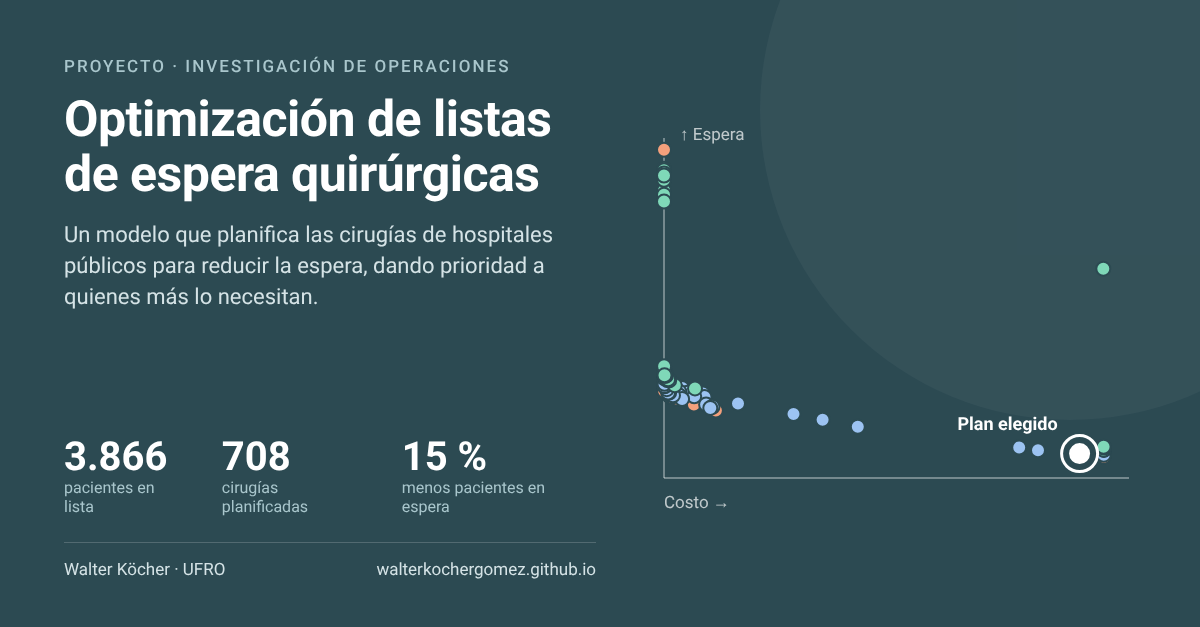
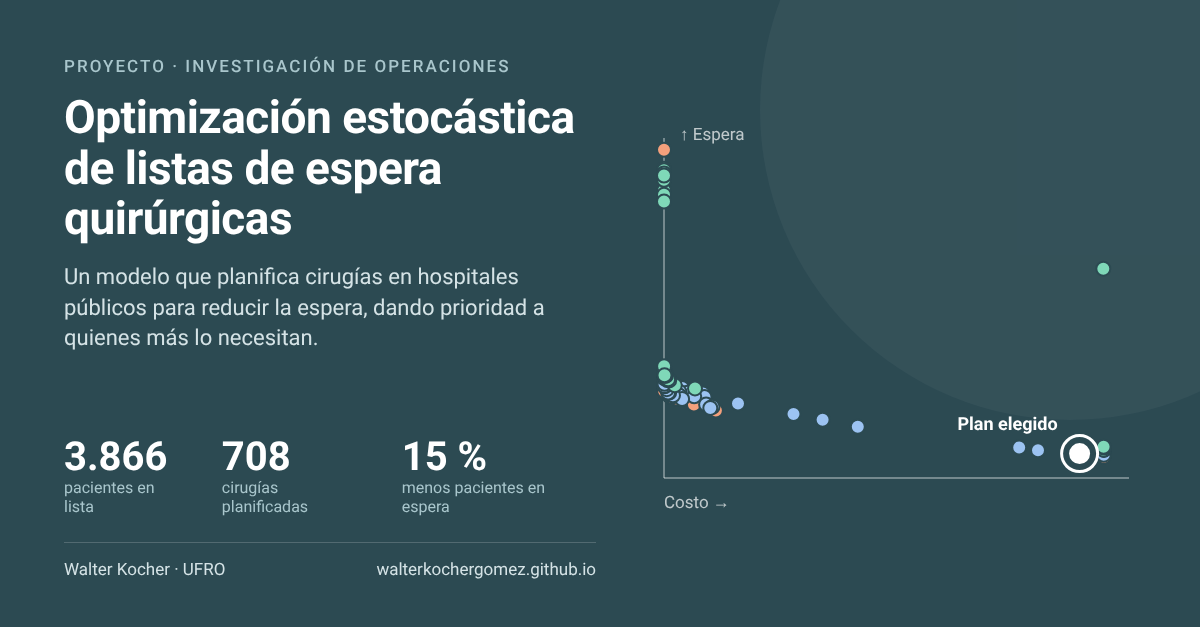
Menciona la optimización estocástica en la web y actualiza la imagen de vista previa
Claude-Session: https://claude.ai/code/session_01JGv5FEsSGp7Y8ajQuJRwav

Changed region(s): [[0.0308, 0.1515, 0.4933, 0.5758]]

diff --git a/proyecto-listas-espera.js b/proyecto-listas-espera.js
@@ -8,12 +8,12 @@
     // ---------- 1. TEXTOS (ES / DE / EN) ----------
     const pageTexts = {
         es: {
-            pj_title: "Optimización de listas de espera quirúrgicas",
+            pj_title: "Optimización estocástica de listas de espera quirúrgicas",
             pj_place: "Universidad de La Frontera (Temuco, Chile)",
             pj_date: "Abr – Jul 2026",
             pj_subtitle: "Un modelo para decidir quién se opera, dónde y cuándo",
-            pj_intro: "En la red pública de La Araucanía, casi 4.000 personas esperaban una cirugía en solo cuatro especialidades. Desarrollé un modelo de optimización que planifica semana a semana las cirugías de tres hospitales públicos y decide qué pacientes conviene derivar a una clínica privada, con un objetivo claro: reducir la espera dando prioridad a quienes más lo necesitan, sin dejar a ningún grupo atrás.",
-            pj_tag1: "Optimización",
+            pj_intro: "En la red pública de La Araucanía, casi 4.000 personas esperaban una cirugía en solo cuatro especialidades. Desarrollé un modelo de optimización estocástica que planifica semana a semana las cirugías de tres hospitales públicos y decide qué pacientes conviene derivar a una clínica privada, con un objetivo claro: reducir la espera dando prioridad a quienes más lo necesitan, sin dejar a ningún grupo atrás.",
+            pj_tag1: "Optimización estocástica",
             pj_tag2: "Análisis de datos",
             pj_tag3: "Salud pública",
             pj_fig_a: "pacientes en lista de espera",
@@ -23,14 +23,14 @@
             pj_s1_p1: "Los pabellones son limitados, derivar pacientes a clínicas privadas cuesta dinero y no todos los casos son igual de urgentes. Si simplemente se atiende por orden de llegada, un caso grave puede esperar lo mismo que uno leve, y los pacientes más vulnerables pueden quedar postergados.",
             pj_s1_p2: "¿Cómo operar a más personas, usando bien los recursos y de forma justa?",
             pj_s2_title: "La solución",
-            pj_s2_p1: "Construí un modelo de optimización: un programa que evalúa miles de combinaciones posibles y elige el mejor plan de cirugías. Para cuatro tipos de cirugía y tres hospitales, el modelo busca equilibrar tres metas al mismo tiempo:",
+            pj_s2_p1: "Construí un modelo de optimización estocástica: un programa que evalúa miles de combinaciones posibles y elige el mejor plan de cirugías. Para cuatro tipos de cirugía y tres hospitales, el modelo busca equilibrar tres metas al mismo tiempo:",
             pj_g1_t: "Gastar mejor",
             pj_g1_d: "Usar el presupuesto de derivación y las horas extra solo donde más rinden.",
             pj_g2_t: "Reducir la espera",
             pj_g2_d: "Dar prioridad a los casos más graves y a los pacientes más vulnerables.",
             pj_g3_t: "Ser justo",
             pj_g3_d: "Que ningún grupo de pacientes quede sistemáticamente atrás.",
-            pj_s2_p2: "Como en la realidad la demanda y las inasistencias cambian, el plan se pone a prueba en un escenario pesimista, uno normal y uno optimista, para que funcione en cualquiera de ellos.",
+            pj_s2_p2: "Es estocástico porque considera la incertidumbre: la demanda, las inasistencias y la duración de las cirugías cambian, así que el plan se pone a prueba en un escenario pesimista, uno normal y uno optimista, para que funcione en cualquiera de ellos.",
             pj_s3_title: "Resultados",
             pj_s3_p1: "En 12 semanas, el plan permite realizar 708 cirugías y reducir la lista de espera en un 15 %, respetando el presupuesto y sin dejar atrás a ningún grupo de pacientes.",
             pj_chart1_title: "Reducción de la lista de espera en 12 semanas, por tipo de cirugía",
@@ -49,7 +49,7 @@
             pj_s3_p3: "También comparé más de 100 planes con distintas prioridades. Una conclusión clave: si el plan no considera la equidad, la desigualdad entre grupos se duplica; al incluirla, se mantiene controlada sin sacrificar casi nada de la reducción de la espera.",
             pj_s4_title: "Lo que desarrollé",
             pj_s4_p1: "Desarrollé el proyecto completo, desde la idea hasta herramientas listas para usarse:",
-            pj_s4_l1: "Diseñé el modelo matemático y lo programé en Python con IBM CPLEX, un optimizador usado en la industria.",
+            pj_s4_l1: "Diseñé el modelo de optimización estocástica y lo programé en Python con IBM CPLEX, un optimizador usado en la industria.",
             pj_s4_l2: "Preparé los datos a partir de información histórica de listas de espera de la región.",
             pj_s4_l3: "Comparé distintos escenarios y prioridades para entender qué se gana y qué se pierde en cada caso.",
             pj_s4_l4: "Creé una aplicación web para registrar pacientes y un panel para seguir los resultados.",
@@ -64,12 +64,12 @@
             js_ini: "En lista al inicio", js_pub: "Operados en hospital público", js_priv: "Derivados a clínica privada", js_fin: "En lista tras 12 semanas"
         },
         de: {
-            pj_title: "Optimierung von OP-Wartelisten",
+            pj_title: "Stochastische Optimierung von OP-Wartelisten",
             pj_place: "Universidad de La Frontera (Temuco, Chile)",
             pj_date: "Apr. – Jul. 2026",
             pj_subtitle: "Ein Modell, das entscheidet, wer wann und wo operiert wird",
-            pj_intro: "Im öffentlichen Gesundheitsnetz der Region Araucanía warteten fast 4.000 Menschen auf eine Operation – in nur vier Fachbereichen. Ich habe ein Optimierungsmodell entwickelt, das die Operationen von drei öffentlichen Krankenhäusern Woche für Woche plant und entscheidet, welche Patienten an eine Privatklinik überwiesen werden sollten. Das Ziel: kürzere Wartezeiten, mit Vorrang für diejenigen, die es am dringendsten brauchen – ohne eine Gruppe zurückzulassen.",
-            pj_tag1: "Optimierung",
+            pj_intro: "Im öffentlichen Gesundheitsnetz der Region Araucanía warteten fast 4.000 Menschen auf eine Operation – in nur vier Fachbereichen. Ich habe ein stochastisches Optimierungsmodell entwickelt, das die Operationen von drei öffentlichen Krankenhäusern Woche für Woche plant und entscheidet, welche Patienten an eine Privatklinik überwiesen werden sollten. Das Ziel: kürzere Wartezeiten, mit Vorrang für diejenigen, die es am dringendsten brauchen – ohne eine Gruppe zurückzulassen.",
+            pj_tag1: "Stochastische Optimierung",
             pj_tag2: "Datenanalyse",
             pj_tag3: "Öffentliche Gesundheit",
             pj_fig_a: "Patienten auf der Warteliste",
@@ -79,14 +79,14 @@
             pj_s1_p1: "OP-Säle sind begrenzt, Überweisungen an Privatkliniken kosten Geld, und nicht jeder Fall ist gleich dringend. Wird einfach nach Eingangsreihenfolge behandelt, kann ein schwerer Fall genauso lange warten wie ein leichter, und besonders verletzliche Patienten werden womöglich zurückgestellt.",
             pj_s1_p2: "Wie kann man mehr Menschen operieren, die Ressourcen gut nutzen und dabei gerecht bleiben?",
             pj_s2_title: "Die Lösung",
-            pj_s2_p1: "Ich habe ein Optimierungsmodell gebaut: ein Programm, das Tausende möglicher Kombinationen bewertet und den besten OP-Plan auswählt. Für vier Eingriffsarten und drei Krankenhäuser bringt das Modell drei Ziele gleichzeitig ins Gleichgewicht:",
+            pj_s2_p1: "Ich habe ein stochastisches Optimierungsmodell gebaut: ein Programm, das Tausende möglicher Kombinationen bewertet und den besten OP-Plan auswählt. Für vier Eingriffsarten und drei Krankenhäuser bringt das Modell drei Ziele gleichzeitig ins Gleichgewicht:",
             pj_g1_t: "Besser haushalten",
             pj_g1_d: "Überweisungsbudget und Überstunden nur dort einsetzen, wo sie am meisten bewirken.",
             pj_g2_t: "Wartezeit verkürzen",
             pj_g2_d: "Schweren Fällen und besonders verletzlichen Patienten Vorrang geben.",
             pj_g3_t: "Gerecht sein",
             pj_g3_d: "Keine Patientengruppe soll systematisch zurückbleiben.",
-            pj_s2_p2: "Da sich Nachfrage und Terminausfälle in der Realität ändern, wird der Plan in einem pessimistischen, einem normalen und einem optimistischen Szenario getestet, damit er in jedem Fall funktioniert.",
+            pj_s2_p2: "Stochastisch ist es, weil es Unsicherheit berücksichtigt: Nachfrage, Terminausfälle und OP-Dauern schwanken. Deshalb wird der Plan in einem pessimistischen, einem normalen und einem optimistischen Szenario getestet, damit er in jedem Fall funktioniert.",
             pj_s3_title: "Ergebnisse",
             pj_s3_p1: "In 12 Wochen ermöglicht der Plan 708 Operationen und verkürzt die Warteliste um 15 % – im Rahmen des Budgets und ohne eine Patientengruppe zurückzulassen.",
             pj_chart1_title: "Reduktion der Warteliste in 12 Wochen, je Eingriff",
@@ -105,7 +105,7 @@
             pj_s3_p3: "Außerdem habe ich über 100 Pläne mit unterschiedlichen Prioritäten verglichen. Eine zentrale Erkenntnis: Ohne Berücksichtigung der Gerechtigkeit verdoppelt sich die Ungleichheit zwischen Gruppen; mit ihr bleibt sie unter Kontrolle, ohne dass die Wartezeitverkürzung nennenswert leidet.",
             pj_s4_title: "Was ich entwickelt habe",
             pj_s4_p1: "Ich habe das gesamte Projekt umgesetzt – von der Idee bis zu einsatzbereiten Werkzeugen:",
-            pj_s4_l1: "Das mathematische Modell entworfen und in Python mit IBM CPLEX, einem in der Industrie eingesetzten Optimierer, programmiert.",
+            pj_s4_l1: "Das stochastische Optimierungsmodell entworfen und in Python mit IBM CPLEX, einem in der Industrie eingesetzten Optimierer, programmiert.",
             pj_s4_l2: "Die Daten auf Basis historischer Wartelisten der Region aufbereitet.",
             pj_s4_l3: "Verschiedene Szenarien und Prioritäten verglichen, um zu verstehen, was man jeweils gewinnt und verliert.",
             pj_s4_l4: "Eine Webanwendung zur Patientenerfassung und ein Dashboard zur Verfolgung der Ergebnisse erstellt.",
@@ -119,12 +119,12 @@
             js_ini: "Zu Beginn auf der Liste", js_pub: "Im öffentlichen Krankenhaus operiert", js_priv: "An Privatklinik überwiesen", js_fin: "Nach 12 Wochen auf der Liste"
         },
         en: {
-            pj_title: "Optimizing Surgical Waiting Lists",
+            pj_title: "Stochastic Optimization of Surgical Waiting Lists",
             pj_place: "Universidad de La Frontera (Temuco, Chile)",
             pj_date: "Apr – Jul 2026",
             pj_subtitle: "A model that decides who gets surgery, where and when",
-            pj_intro: "In La Araucanía's public health network, almost 4,000 people were waiting for surgery in just four specialties. I developed an optimization model that plans the surgeries of three public hospitals week by week and decides which patients should be referred to a private clinic, with one clear goal: shorten waiting times by putting those who need it most first, without leaving any group behind.",
-            pj_tag1: "Optimization",
+            pj_intro: "In La Araucanía's public health network, almost 4,000 people were waiting for surgery in just four specialties. I developed a stochastic optimization model that plans the surgeries of three public hospitals week by week and decides which patients should be referred to a private clinic, with one clear goal: shorten waiting times by putting those who need it most first, without leaving any group behind.",
+            pj_tag1: "Stochastic optimization",
             pj_tag2: "Data analysis",
             pj_tag3: "Public health",
             pj_fig_a: "patients on the waiting list",
@@ -134,14 +134,14 @@
             pj_s1_p1: "Operating rooms are limited, referring patients to private clinics costs money, and not every case is equally urgent. If patients are simply treated in order of arrival, a severe case may wait as long as a mild one, and the most vulnerable patients can be left behind.",
             pj_s1_p2: "How can we operate on more people, use resources wisely and stay fair?",
             pj_s2_title: "The solution",
-            pj_s2_p1: "I built an optimization model: a program that evaluates thousands of possible combinations and picks the best surgical plan. For four types of surgery and three hospitals, the model balances three goals at once:",
+            pj_s2_p1: "I built a stochastic optimization model: a program that evaluates thousands of possible combinations and picks the best surgical plan. For four types of surgery and three hospitals, the model balances three goals at once:",
             pj_g1_t: "Spend wisely",
             pj_g1_d: "Use the referral budget and overtime only where they make the biggest difference.",
             pj_g2_t: "Shorten the wait",
             pj_g2_d: "Give priority to the most severe cases and the most vulnerable patients.",
             pj_g3_t: "Be fair",
             pj_g3_d: "Make sure no group of patients is systematically left behind.",
-            pj_s2_p2: "Because demand and no-shows change in real life, the plan is tested in a pessimistic, a normal and an optimistic scenario, so it works in any of them.",
+            pj_s2_p2: "It is stochastic because it accounts for uncertainty: demand, no-shows and surgery durations vary, so the plan is tested in a pessimistic, a normal and an optimistic scenario to make sure it works in any of them.",
             pj_s3_title: "Results",
             pj_s3_p1: "In 12 weeks, the plan makes 708 surgeries possible and cuts the waiting list by 15%, within budget and without leaving any group of patients behind.",
             pj_chart1_title: "Waiting-list reduction in 12 weeks, by type of surgery",
@@ -160,7 +160,7 @@
             pj_s3_p3: "I also compared more than 100 plans with different priorities. One key finding: if the plan ignores fairness, inequality between groups doubles; when fairness is included, it stays under control while giving up almost none of the waiting-time reduction.",
             pj_s4_title: "What I built",
             pj_s4_p1: "I developed the whole project, from the initial idea to ready-to-use tools:",
-            pj_s4_l1: "Designed the mathematical model and programmed it in Python with IBM CPLEX, an optimizer used in industry.",
+            pj_s4_l1: "Designed the stochastic optimization model and programmed it in Python with IBM CPLEX, an optimizer used in industry.",
             pj_s4_l2: "Prepared the data from the region's historical waiting-list records.",
             pj_s4_l3: "Compared different scenarios and priorities to understand what is gained and lost in each case.",
             pj_s4_l4: "Built a web app to register patients and a dashboard to follow the results.",

diff --git a/proyecto-listas-espera.html b/proyecto-listas-espera.html
@@ -4,13 +4,13 @@
     <meta charset="UTF-8">
     <meta name="viewport" content="width=device-width, initial-scale=1.0">
     <title>Listas de Espera Quirúrgicas - Walter Köcher</title>
-    <meta name="description" content="Modelo de optimización que planifica las cirugías de hospitales públicos de La Araucanía para reducir la lista de espera, dando prioridad a quienes más lo necesitan.">
+    <meta name="description" content="Modelo de optimización estocástica que planifica las cirugías de hospitales públicos de La Araucanía para reducir la lista de espera, dando prioridad a quienes más lo necesitan.">
 
     <!-- Vista previa al compartir el enlace (LinkedIn, WhatsApp, etc.) -->
     <meta property="og:type" content="article">
     <meta property="og:site_name" content="Walter Jürgen Köcher Gómez">
-    <meta property="og:title" content="Optimización de listas de espera quirúrgicas">
-    <meta property="og:description" content="Un modelo que planifica las cirugías de hospitales públicos de La Araucanía para reducir la espera, dando prioridad a quienes más lo necesitan y sin dejar a ningún grupo atrás.">
+    <meta property="og:title" content="Optimización estocástica de listas de espera quirúrgicas">
+    <meta property="og:description" content="Un modelo de optimización estocástica que planifica las cirugías de hospitales públicos de La Araucanía para reducir la espera, dando prioridad a quienes más lo necesitan y sin dejar a ningún grupo atrás.">
     <meta property="og:image" content="https://walterkochergomez.github.io/img/proyecto-listas-espera-og.png">
     <meta property="og:image:width" content="1200">
     <meta property="og:image:height" content="627">
@@ -46,18 +46,18 @@
 
         <!-- ENCABEZADO -->
         <section class="detail-section">
-            <h3 data-key="pj_title">Optimización de listas de espera quirúrgicas</h3>
+            <h3 data-key="pj_title">Optimización estocástica de listas de espera quirúrgicas</h3>
             <div class="timeline-item" style="max-width: 100%;">
                 <div class="timeline-header">
                     <span class="timeline-company" data-key="pj_place">Universidad de La Frontera (Temuco, Chile)</span>
                     <span class="timeline-date" data-key="pj_date">Abr – Jul 2026</span>
                 </div>
                 <h4 class="pj-sub" data-key="pj_subtitle">Un modelo para decidir quién se opera, dónde y cuándo</h4>
-                <p class="pj-text" data-key="pj_intro">En la red pública de La Araucanía, casi 4.000 personas esperaban una cirugía en solo cuatro especialidades. Desarrollé un modelo de optimización que planifica semana a semana las cirugías de tres hospitales públicos y decide qué pacientes conviene derivar a una clínica privada, con un objetivo claro: reducir la espera dando prioridad a quienes más lo necesitan, sin dejar a ningún grupo atrás.</p>
+                <p class="pj-text" data-key="pj_intro">En la red pública de La Araucanía, casi 4.000 personas esperaban una cirugía en solo cuatro especialidades. Desarrollé un modelo de optimización estocástica que planifica semana a semana las cirugías de tres hospitales públicos y decide qué pacientes conviene derivar a una clínica privada, con un objetivo claro: reducir la espera dando prioridad a quienes más lo necesitan, sin dejar a ningún grupo atrás.</p>
                 <div class="tag-list" style="margin-top: 18px;">
                     <span class="tag">Python</span>
                     <span class="tag">IBM CPLEX</span>
-                    <span class="tag" data-key="pj_tag1">Optimización</span>
+                    <span class="tag" data-key="pj_tag1">Optimización estocástica</span>
                     <span class="tag" data-key="pj_tag2">Análisis de datos</span>
                     <span class="tag" data-key="pj_tag3">Salud pública</span>
                 </div>
@@ -98,7 +98,7 @@
         <section class="detail-section">
             <div class="timeline-item" style="max-width: 100%;">
                 <h4 class="pj-sub pj-sub-first"><i class="fas fa-lightbulb"></i> <span data-key="pj_s2_title">La solución</span></h4>
-                <p class="pj-text" data-key="pj_s2_p1">Construí un modelo de optimización: un programa que evalúa miles de combinaciones posibles y elige el mejor plan de cirugías. Para cuatro tipos de cirugía y tres hospitales, el modelo busca equilibrar tres metas al mismo tiempo:</p>
+                <p class="pj-text" data-key="pj_s2_p1">Construí un modelo de optimización estocástica: un programa que evalúa miles de combinaciones posibles y elige el mejor plan de cirugías. Para cuatro tipos de cirugía y tres hospitales, el modelo busca equilibrar tres metas al mismo tiempo:</p>
                 <div class="pj-cards">
                     <div class="pj-card">
                         <h5><i class="fas fa-coins"></i><span data-key="pj_g1_t">Gastar mejor</span></h5>
@@ -113,7 +113,7 @@
                         <p data-key="pj_g3_d">Que ningún grupo de pacientes quede sistemáticamente atrás.</p>
                     </div>
                 </div>
-                <p class="pj-text" data-key="pj_s2_p2">Como en la realidad la demanda y las inasistencias cambian, el plan se pone a prueba en un escenario pesimista, uno normal y uno optimista, para que funcione en cualquiera de ellos.</p>
+                <p class="pj-text" data-key="pj_s2_p2">Es estocástico porque considera la incertidumbre: la demanda, las inasistencias y la duración de las cirugías cambian, así que el plan se pone a prueba en un escenario pesimista, uno normal y uno optimista, para que funcione en cualquiera de ellos.</p>
             </div>
         </section>
 
@@ -161,7 +161,7 @@
                 <h4 class="pj-sub pj-sub-first"><i class="fas fa-user-gear"></i> <span data-key="pj_s4_title">Lo que desarrollé</span></h4>
                 <p class="pj-text" data-key="pj_s4_p1">Desarrollé el proyecto completo, desde la idea hasta herramientas listas para usarse:</p>
                 <ul class="pj-done">
-                    <li data-key="pj_s4_l1">Diseñé el modelo matemático y lo programé en Python con IBM CPLEX, un optimizador usado en la industria.</li>
+                    <li data-key="pj_s4_l1">Diseñé el modelo de optimización estocástica y lo programé en Python con IBM CPLEX, un optimizador usado en la industria.</li>
                     <li data-key="pj_s4_l2">Preparé los datos a partir de información histórica de listas de espera de la región.</li>
                     <li data-key="pj_s4_l3">Comparé distintos escenarios y prioridades para entender qué se gana y qué se pierde en cada caso.</li>
                     <li data-key="pj_s4_l4">Creé una aplicación web para registrar pacientes y un panel para seguir los resultados.</li>

diff --git a/script.js b/script.js
@@ -101,15 +101,15 @@ const translations = {
         "proj_title": "Proyectos",
         "proj1_visual": "Cada punto es un plan distinto",
         "proj1_kicker": "Proyecto · Investigación de Operaciones",
-        "proj1_name": "Optimización de listas de espera quirúrgicas",
+        "proj1_name": "Optimización estocástica de listas de espera quirúrgicas",
         "proj1_meta": "Universidad de La Frontera · 2026",
-        "proj1_desc": "Un modelo que planifica las cirugías de hospitales públicos de La Araucanía para reducir la lista de espera, dando prioridad a quienes más lo necesitan y sin dejar a ningún grupo atrás.",
+        "proj1_desc": "Un modelo de optimización estocástica que planifica las cirugías de hospitales públicos de La Araucanía para reducir la lista de espera, dando prioridad a quienes más lo necesitan y sin dejar a ningún grupo atrás.",
         "proj1_kpi1_v": "3.866",
         "proj1_kpi1": "pacientes en lista",
         "proj1_kpi2": "cirugías planificadas en 12 semanas",
         "proj1_kpi3": "menos pacientes en espera",
         "proj1_kpi3_v": "15 %",
-        "tag_opt": "Optimización",
+        "tag_opt": "Optimización estocástica",
         "tag_health": "Salud pública",
         "btn_view_project": "Ver proyecto",
         "header_subtitle": "ESTUDIANTE DE INGENIERÍA CIVIL INDUSTRIAL",
@@ -279,15 +279,15 @@ const translations = {
         "proj_title": "Projekte",
         "proj1_visual": "Jeder Punkt ist ein anderer Plan",
         "proj1_kicker": "Projekt · Operations Research",
-        "proj1_name": "Optimierung von OP-Wartelisten",
+        "proj1_name": "Stochastische Optimierung von OP-Wartelisten",
         "proj1_meta": "Universidad de La Frontera · 2026",
-        "proj1_desc": "Ein Modell, das die Operationen öffentlicher Krankenhäuser in der Region Araucanía (Chile) plant, um Wartelisten zu verkürzen – mit Vorrang für die dringendsten Fälle und ohne eine Gruppe zurückzulassen.",
+        "proj1_desc": "Ein stochastisches Optimierungsmodell, das die Operationen öffentlicher Krankenhäuser in der Region Araucanía (Chile) plant, um Wartelisten zu verkürzen – mit Vorrang für die dringendsten Fälle und ohne eine Gruppe zurückzulassen.",
         "proj1_kpi1_v": "3.866",
         "proj1_kpi1": "Patienten auf der Warteliste",
         "proj1_kpi2": "geplante Operationen in 12 Wochen",
         "proj1_kpi3": "weniger Patienten auf der Warteliste",
         "proj1_kpi3_v": "15 %",
-        "tag_opt": "Optimierung",
+        "tag_opt": "Stochastische Optimierung",
         "tag_health": "Öffentliche Gesundheit",
         "btn_view_project": "Projekt ansehen",
         "header_subtitle": "STUDENT DER WIRTSCHAFTSINGENIEURWESEN",
@@ -457,15 +457,15 @@ const translations = {
         "proj_title": "Projects",
         "proj1_visual": "Each dot is a different plan",
         "proj1_kicker": "Project · Operations Research",
-        "proj1_name": "Optimizing Surgical Waiting Lists",
+        "proj1_name": "Stochastic Optimization of Surgical Waiting Lists",
         "proj1_meta": "Universidad de La Frontera · 2026",
-        "proj1_desc": "A model that plans surgeries at public hospitals in La Araucanía, Chile, to shorten waiting lists, putting those who need it most first without leaving any group behind.",
+        "proj1_desc": "A stochastic optimization model that plans surgeries at public hospitals in La Araucanía, Chile, to shorten waiting lists, putting those who need it most first without leaving any group behind.",
         "proj1_kpi1_v": "3,866",
         "proj1_kpi1": "patients on the waiting list",
         "proj1_kpi2": "surgeries planned in 12 weeks",
         "proj1_kpi3": "fewer patients waiting",
         "proj1_kpi3_v": "15%",
-        "tag_opt": "Optimization",
+        "tag_opt": "Stochastic optimization",
         "tag_health": "Public health",
         "btn_view_project": "View project",
         "header_subtitle": "INDUSTRIAL CIVIL ENGINEERING STUDENT",

diff --git a/index.html b/index.html
@@ -191,9 +191,9 @@
                 </a>
                 <div class="project-body">
                     <span class="project-kicker" data-key="proj1_kicker">Proyecto · Investigación de Operaciones</span>
-                    <h4 data-key="proj1_name">Optimización de listas de espera quirúrgicas</h4>
+                    <h4 data-key="proj1_name">Optimización estocástica de listas de espera quirúrgicas</h4>
                     <span class="project-meta-line"><i class="fas fa-university"></i><span data-key="proj1_meta">Universidad de La Frontera · 2026</span></span>
-                    <p data-key="proj1_desc">Un modelo que planifica las cirugías de hospitales públicos de La Araucanía para reducir la lista de espera, dando prioridad a quienes más lo necesitan y sin dejar a ningún grupo atrás.</p>
+                    <p data-key="proj1_desc">Un modelo de optimización estocástica que planifica las cirugías de hospitales públicos de La Araucanía para reducir la lista de espera, dando prioridad a quienes más lo necesitan y sin dejar a ningún grupo atrás.</p>
                     <div class="project-kpis">
                         <div class="project-kpi"><strong data-key="proj1_kpi1_v">3.866</strong><span data-key="proj1_kpi1">pacientes en lista</span></div>
                         <div class="project-kpi"><strong>708</strong><span data-key="proj1_kpi2">cirugías planificadas en 12 semanas</span></div>
@@ -202,7 +202,7 @@
                     <div class="tag-list">
                         <span class="tag">Python</span>
                         <span class="tag">IBM CPLEX</span>
-                        <span class="tag" data-key="tag_opt">Optimización</span>
+                        <span class="tag" data-key="tag_opt">Optimización estocástica</span>
                         <span class="tag" data-key="tag_health">Salud pública</span>
                     </div>
                     <a href="proyecto-listas-espera.html" class="btn-primary"><span data-key="btn_view_project">Ver proyecto</span> <i class="fas fa-arrow-right"></i></a>
